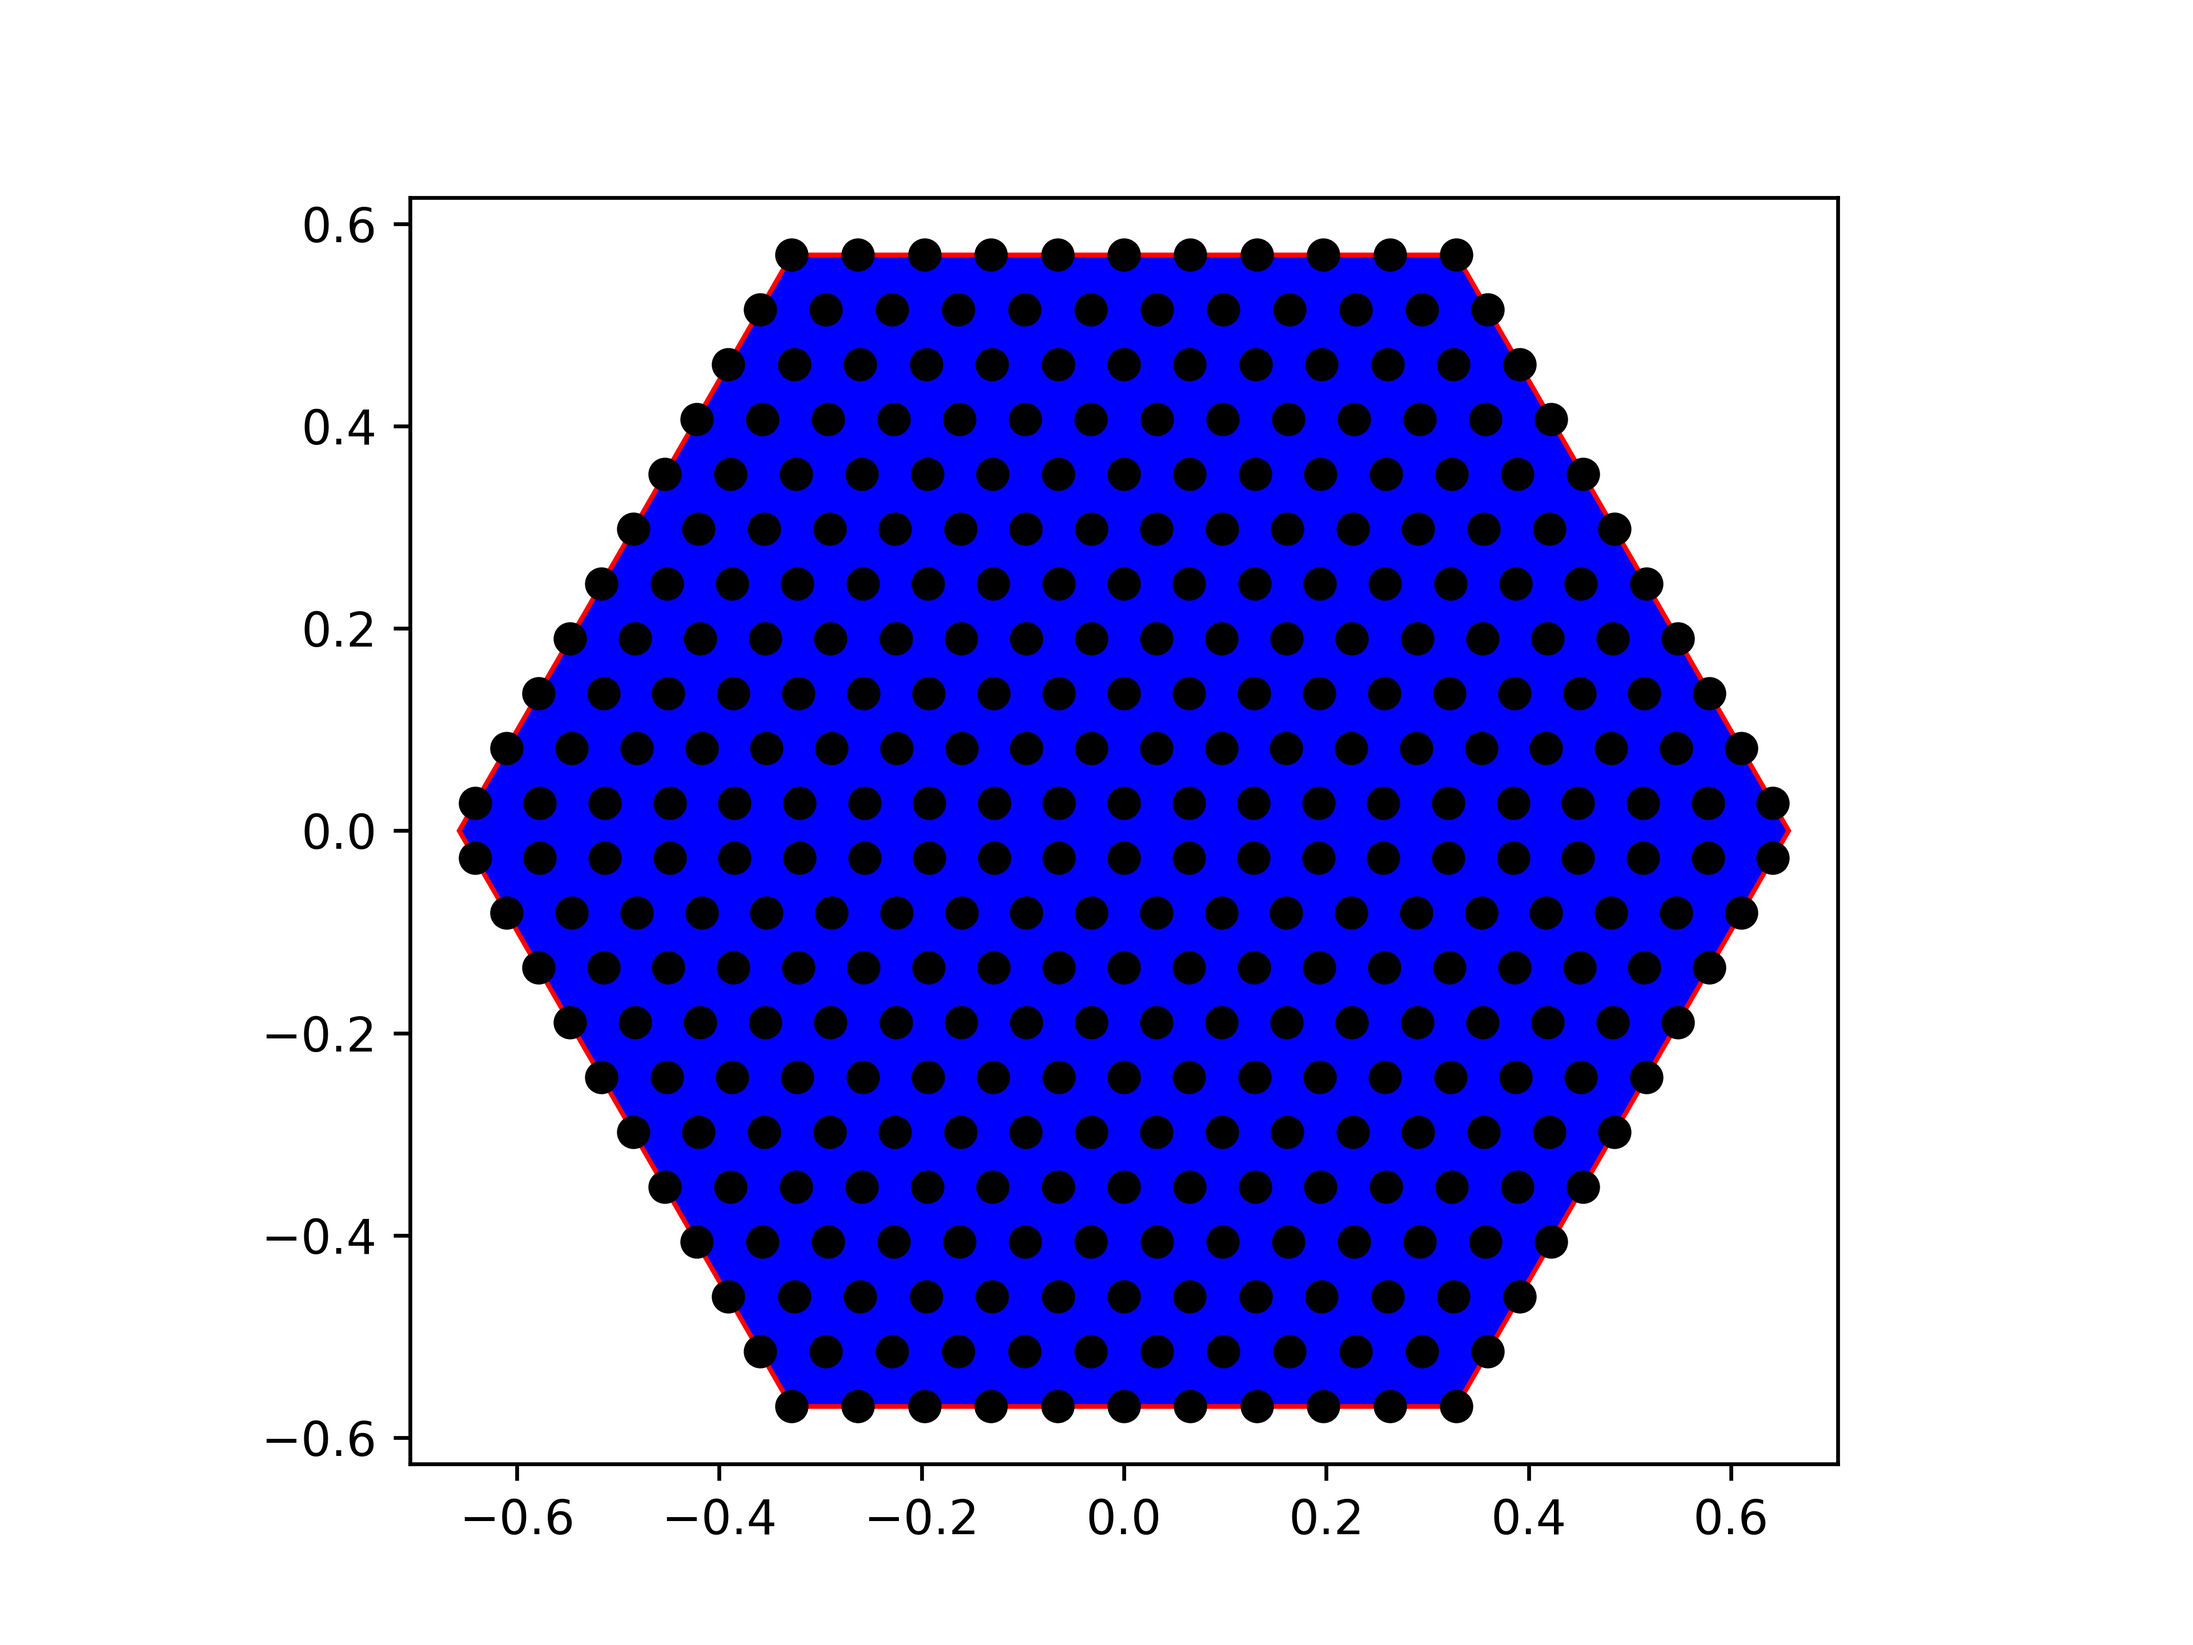
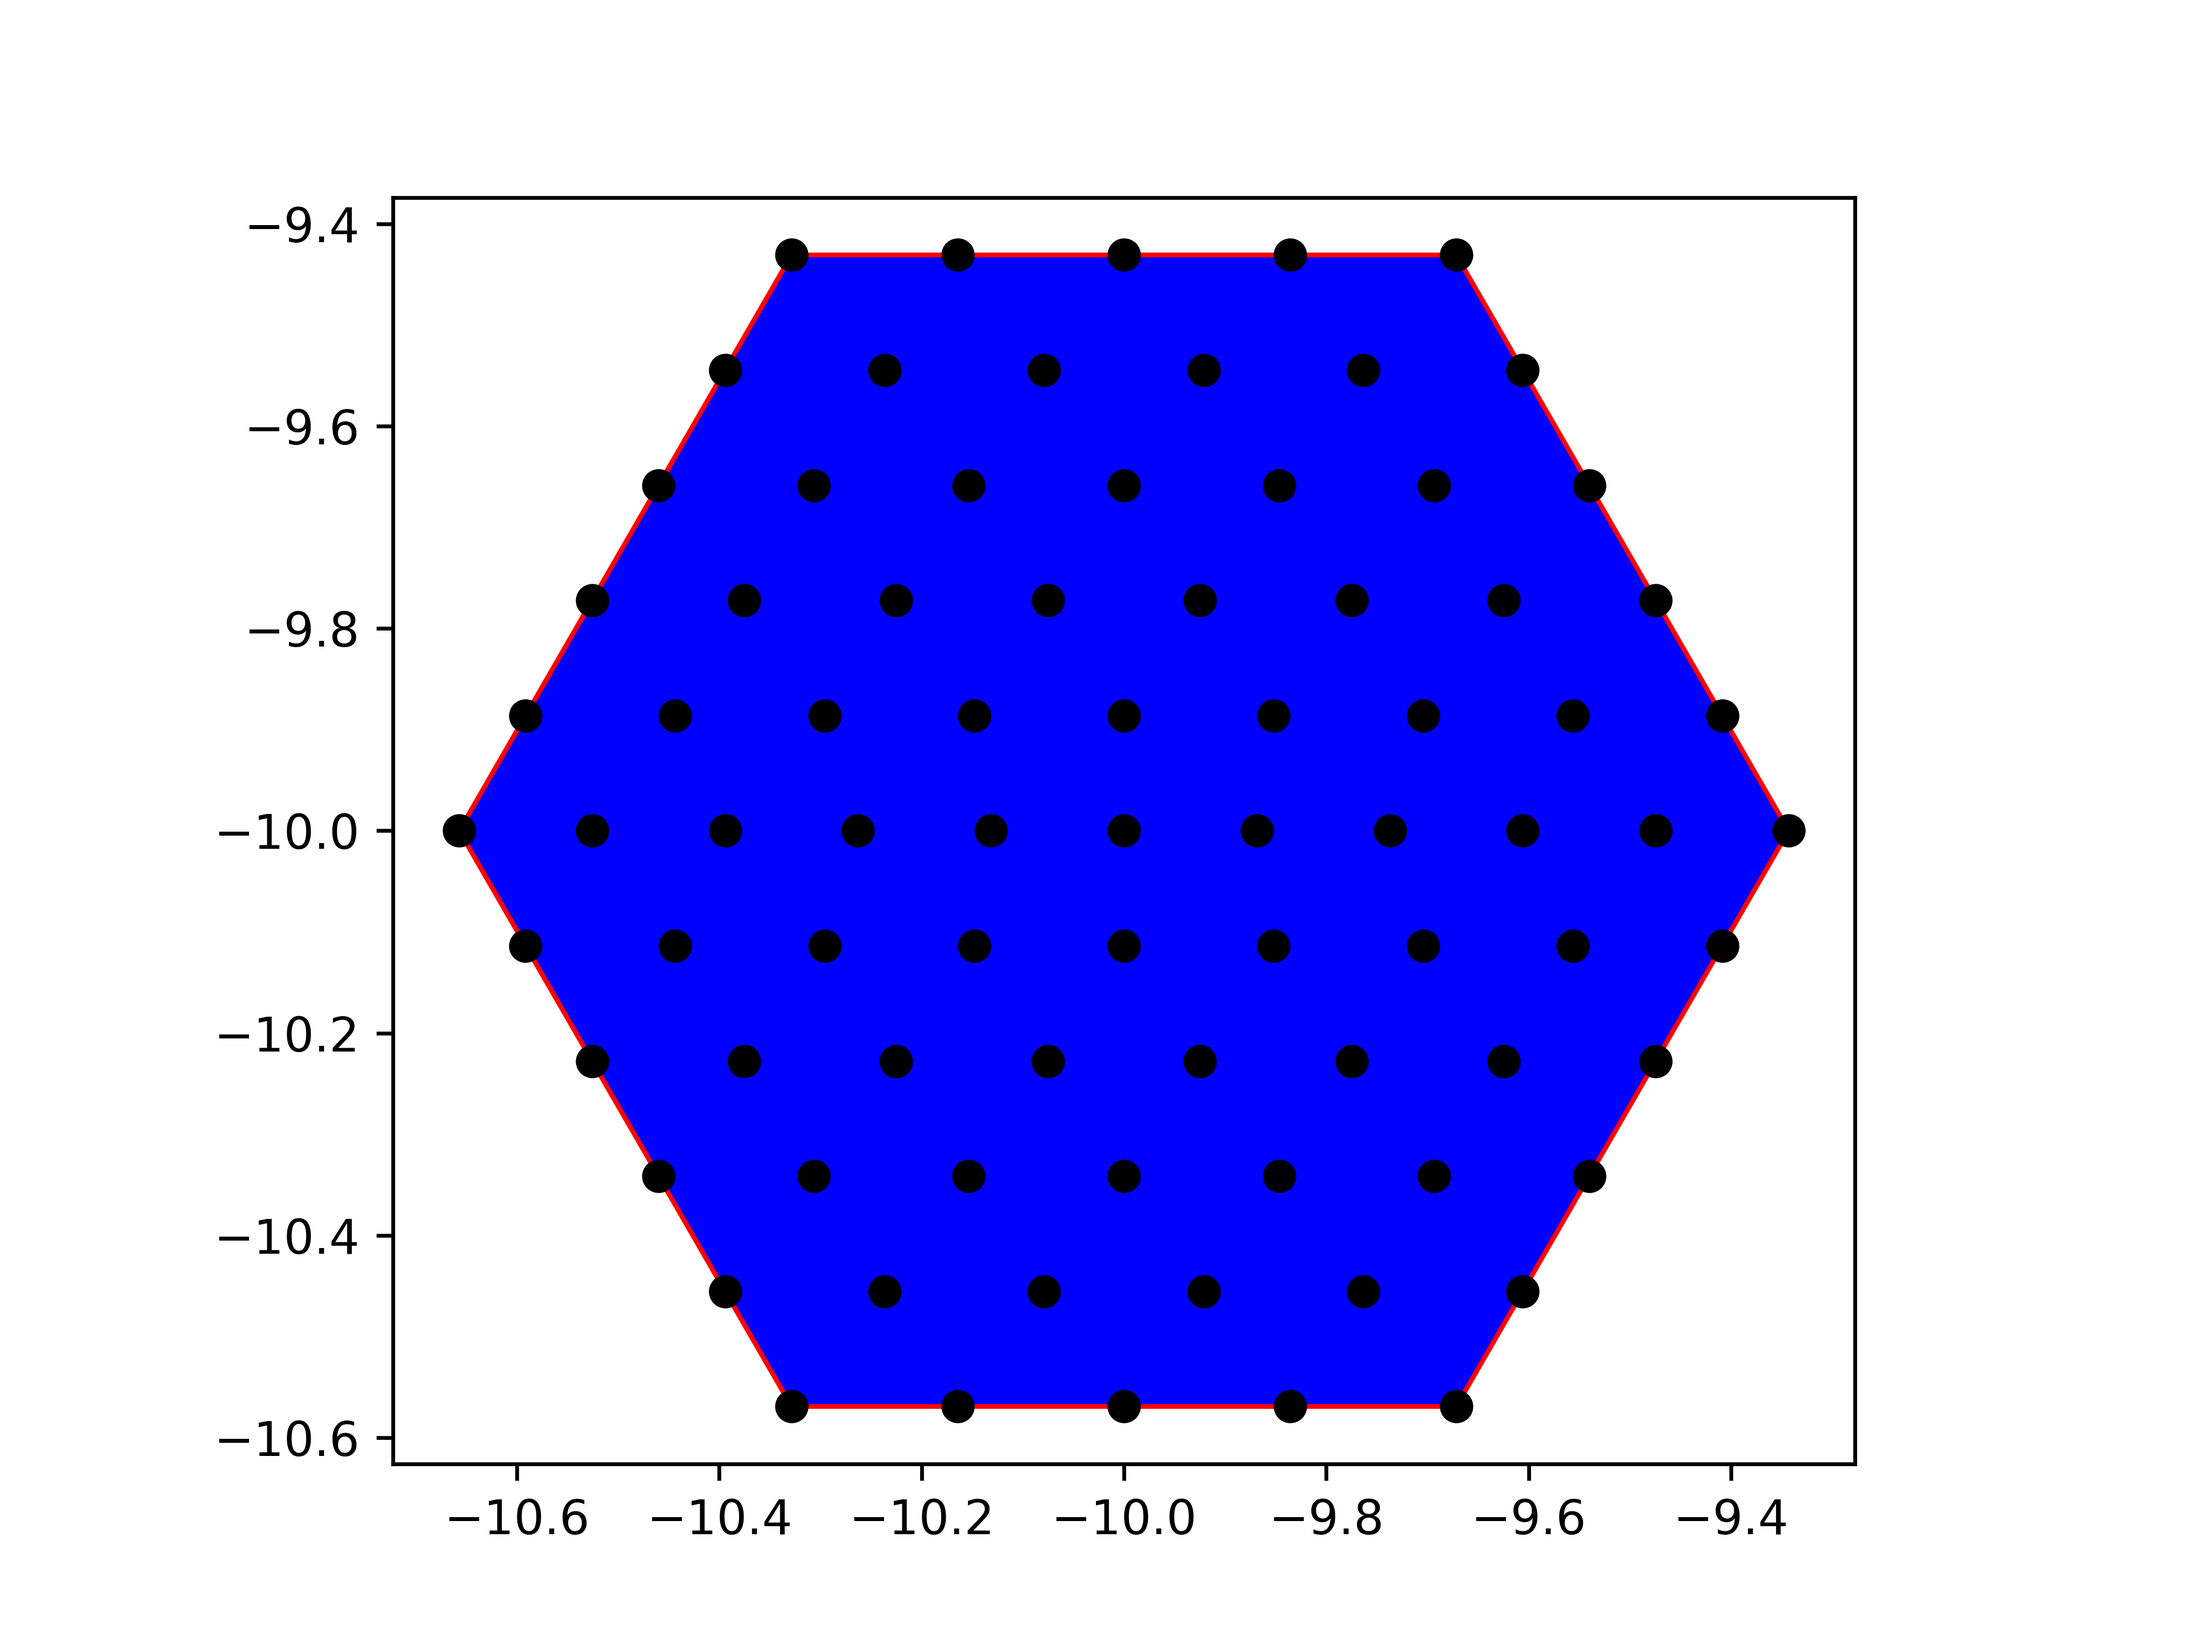
fixed quad set

diff --git a/post-processing/quadrature_set.py b/post-processing/quadrature_set.py
@@ -1,0 +1,60 @@
+import numpy as np
+import matplotlib.pyplot as plt
+from matplotlib.patches import RegularPolygon as rp
+from hex_rings import pitch, radius, cs
+
+# dimesions
+h = pitch / 2
+
+
+def get_ys(n, y0):
+    return np.linspace(y0 - h, y0 + h, n)
+
+
+def get_xs(n, x0, y0, y):
+    xr = x0 + radius - (radius * abs(y - y0) / 2 / h)
+    xl = x0 - radius + (radius * abs(y - y0) / 2 / h)
+
+    m = abs(int(n * (1 - abs(y - y0) / 2 / h)))
+    return np.linspace(xl, xr, m)
+
+
+def quad_set(center, dx):
+    x0, y0 = center
+    n = int(2 * h / dx)
+
+    ys = get_ys(n, y0)
+    points = []
+
+    count = 0
+
+    for y in ys:
+        xs = get_xs(n, x0, y0, y)
+        count += len(xs)
+        for x in xs:
+            points.append(np.array([x, y]))
+
+    return points, count
+
+
+# plotting
+def plotter():
+    center = np.array([-10, -10])
+
+    fig, ax = plt.subplots()
+    ax.set_aspect('equal')
+    ax.add_artist(rp((center[0], center[1]), 6, radius=radius, orientation=np.pi/2, 
+                     color='b', ec='r'))
+
+    coords, count = quad_set(center, 0.1)
+    print(count)
+
+    for coord in coords:
+        x, y = coord
+        plt.scatter(x, y, color='k')
+
+    plt.savefig("quadrature-set.png", dpi=600)
+    plt.show()
+
+plotter()
+# print(radius, h)

diff --git a/post-processing/calculating-weights.py b/post-processing/calculating-weights.py
@@ -1,0 +1,17 @@
+from functions import zern_fission_xy, poly_fission_xy, polygon_radius
+from quadrature_set import quad_set, plotter
+from hex_rings import cs, radius
+
+values = {}
+num_quad = {}
+
+for ring in cs:
+    for cell_num in range(len(cs[ring])):
+        cell_id = f"cell_{ring}_{cell_num}"
+        center = cs[ring][cell_num]
+
+        quad_points, count = quad_set(center, 0.1)
+        value = 0
+
+        for quad_point in quad_points:
+            print(quad_point)
